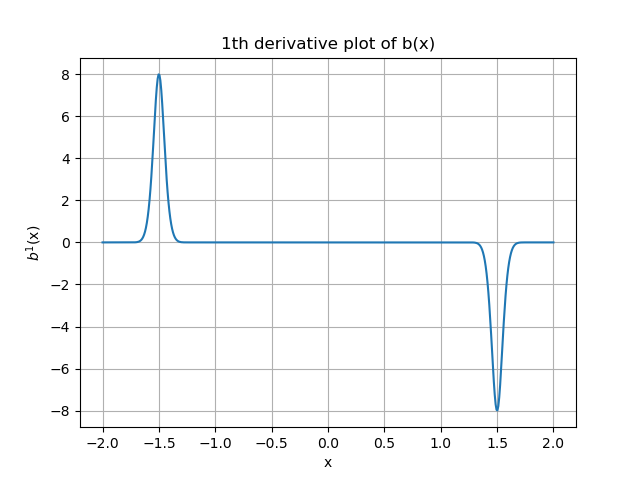
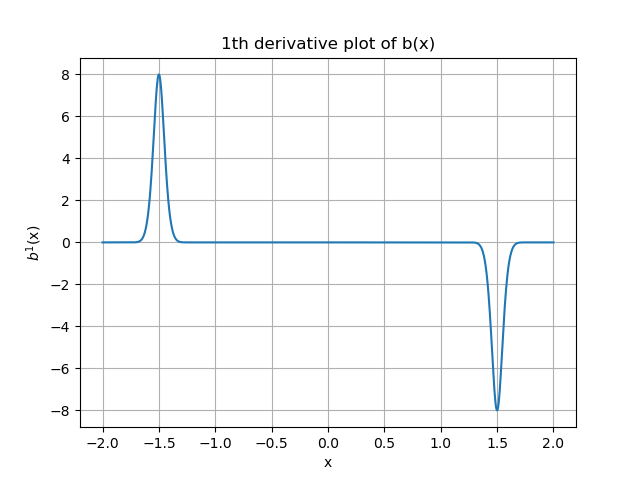
changefinal

Changed region(s): [[0.125, 0.8438, 0.9062, 0.875], [0.125, 0.75, 0.9062, 0.7812], [0.125, 0.6562, 0.9062, 0.6875]]

diff --git a/190050102-190050115-outlab4/task4/task4.py b/190050102-190050115-outlab4/task4/task4.py
@@ -26,7 +26,7 @@ def sinc(x,y):
 		return np.sin(np.sqrt(x*x + y*y))/np.sqrt(x*x + y*y)
 
 def fn_plot1d(fn, x_min ,x_max ,filename):
-	x = np.linspace(x_min,x_max,num=500)
+	x = np.linspace(x_min,x_max,num=1000)
 	plt.plot(x,list(map(fn,x)))
 	plt.xlabel("x")
 	plt.ylabel("b(x)")
@@ -36,8 +36,8 @@ def fn_plot1d(fn, x_min ,x_max ,filename):
 	plt.close()
 
 def fn_plot2d(fn, x_min, x_max, y_min, y_max, filename):
-	xx = np.linspace(x_min,x_max,num=500)
-	yy = np.linspace(y_min,y_max,num=500)
+	xx = np.linspace(x_min,x_max)
+	yy = np.linspace(y_min,y_max)
 	x,y = np.meshgrid(xx,yy)
 	z = fn(x,y)
 	ax = Axes3D(plt.gcf())
@@ -50,7 +50,7 @@ def fn_plot2d(fn, x_min, x_max, y_min, y_max, filename):
 	plt.close()
 
 def nth_derivative_plotter(fn,n,xmin,xmax,filename):
-	xx = np.linspace(xmin,xmax,num=500)
+	xx = np.linspace(xmin,xmax,num=1000)
 	y = [derivative(fn,x,n=n,dx=0.0001) for x in xx]
 	plt.plot(xx,y)
 	plt.grid(True)
